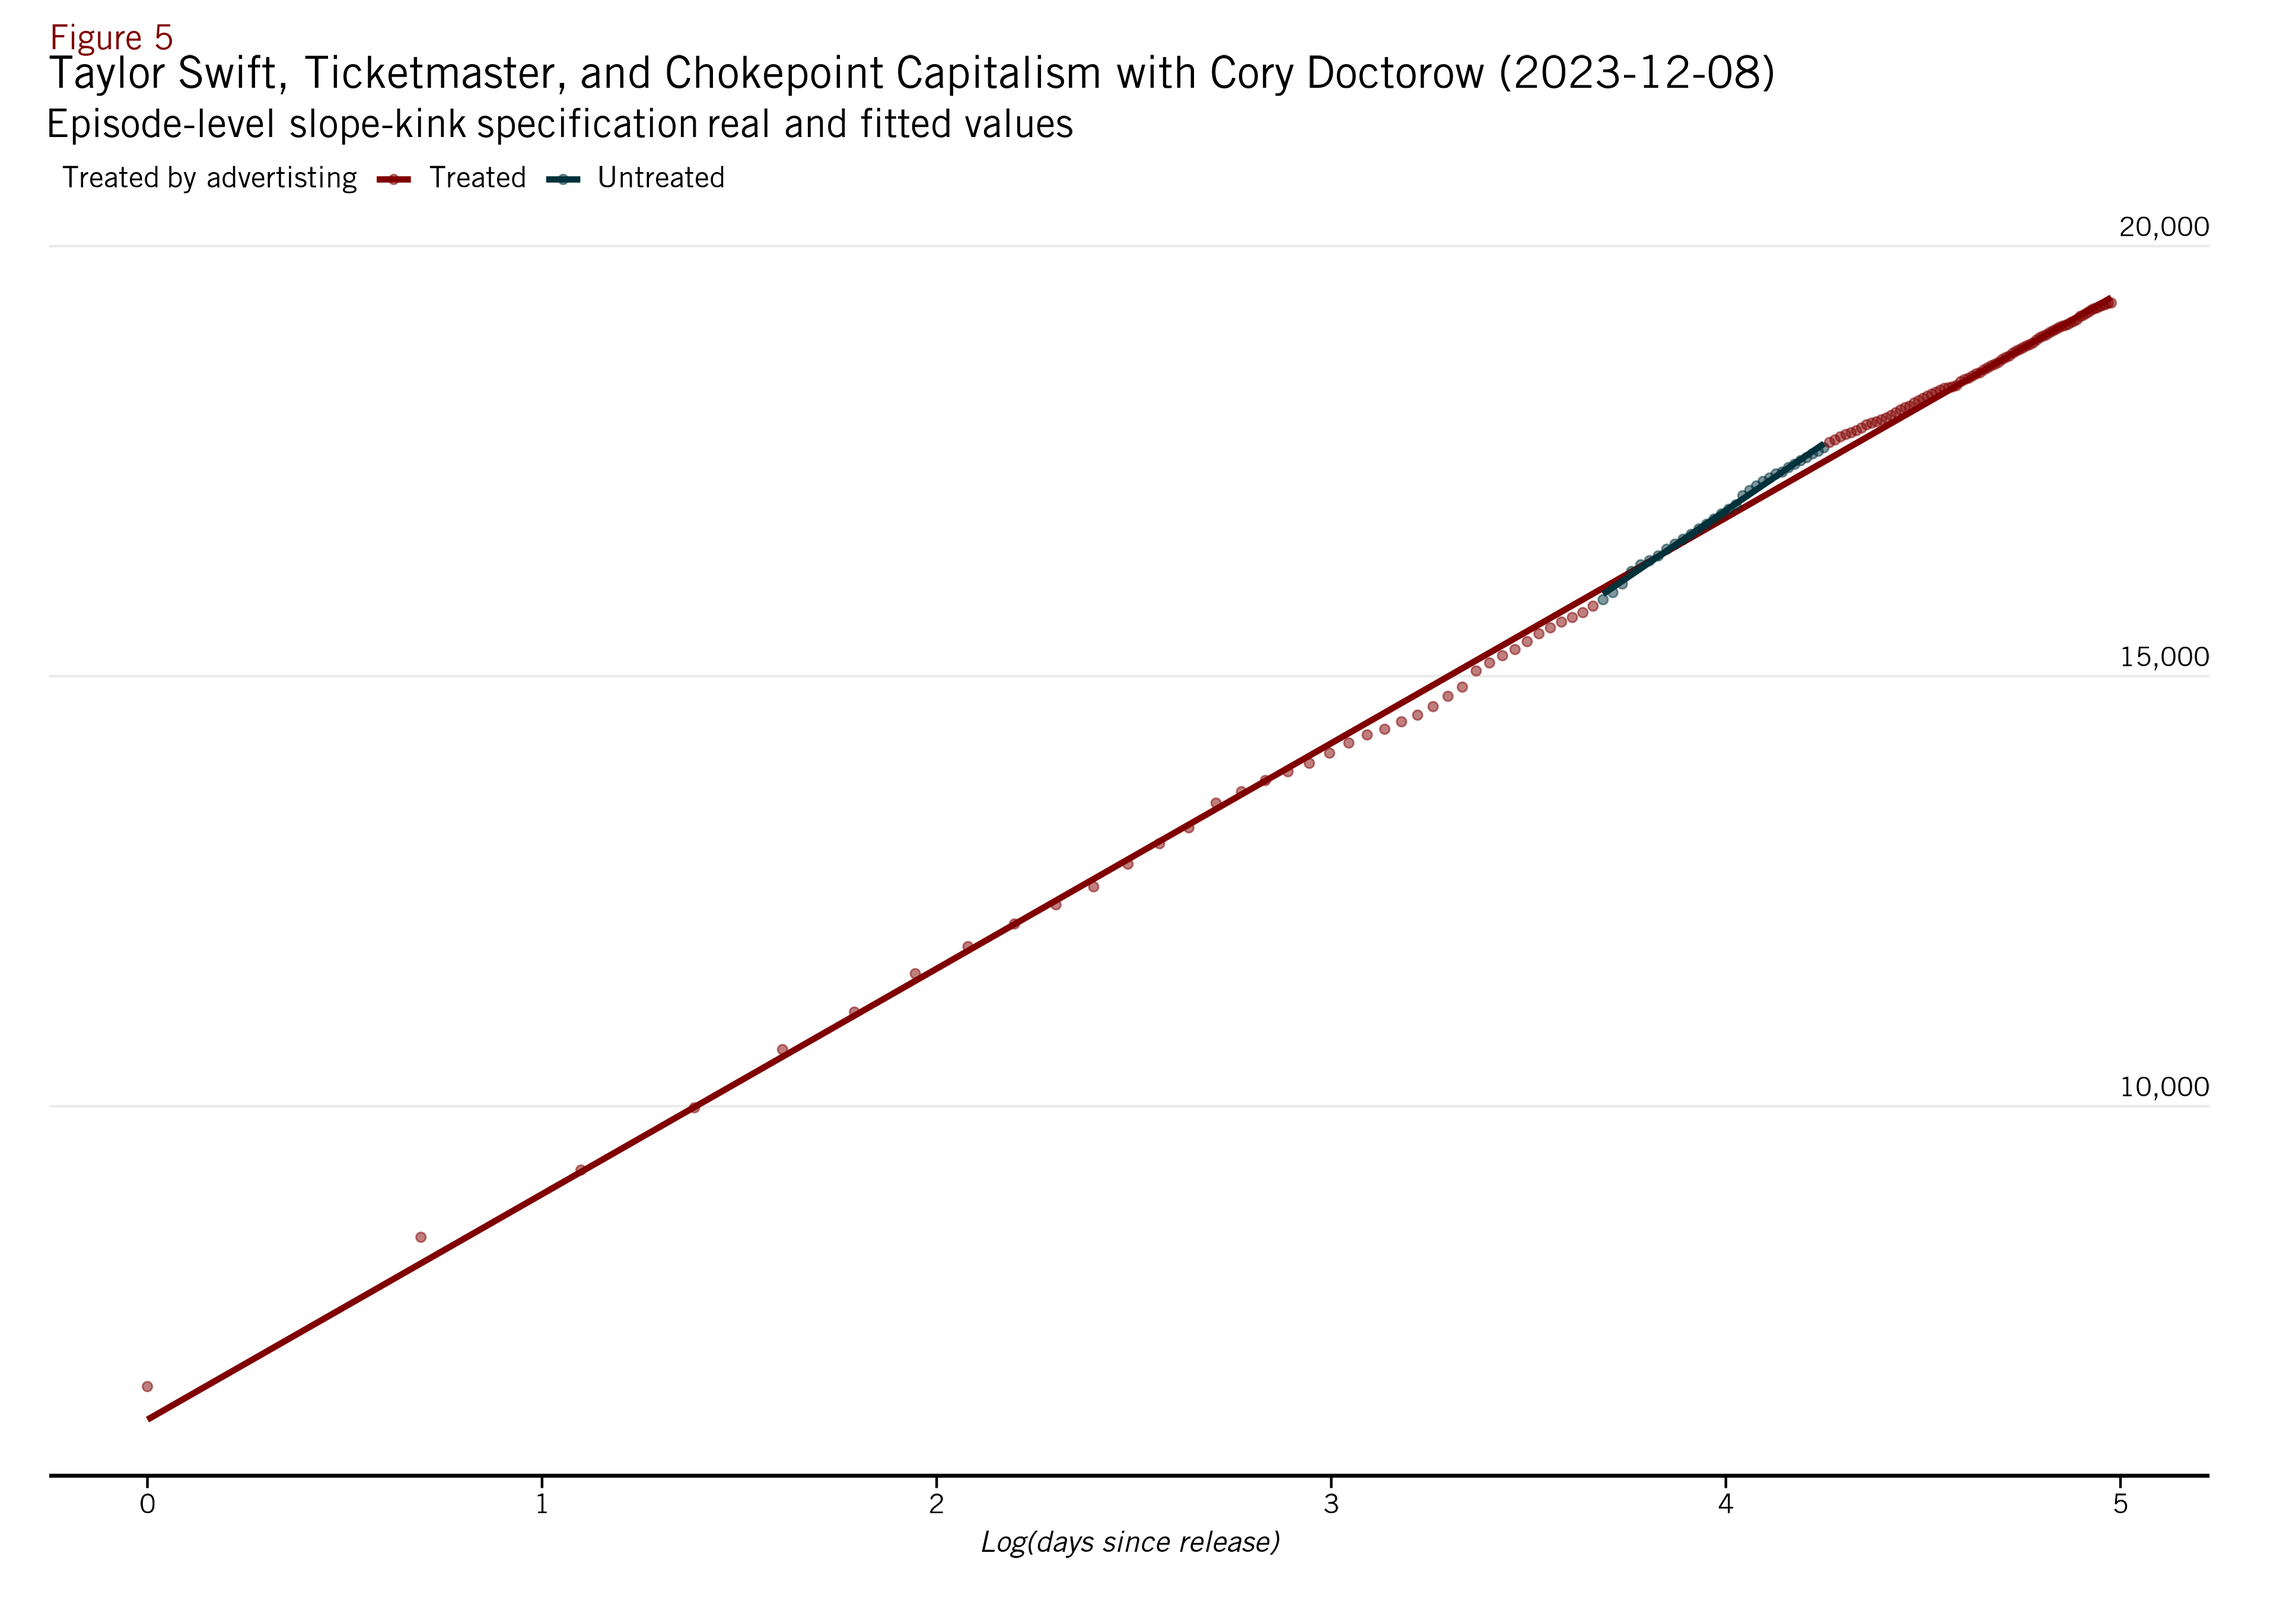
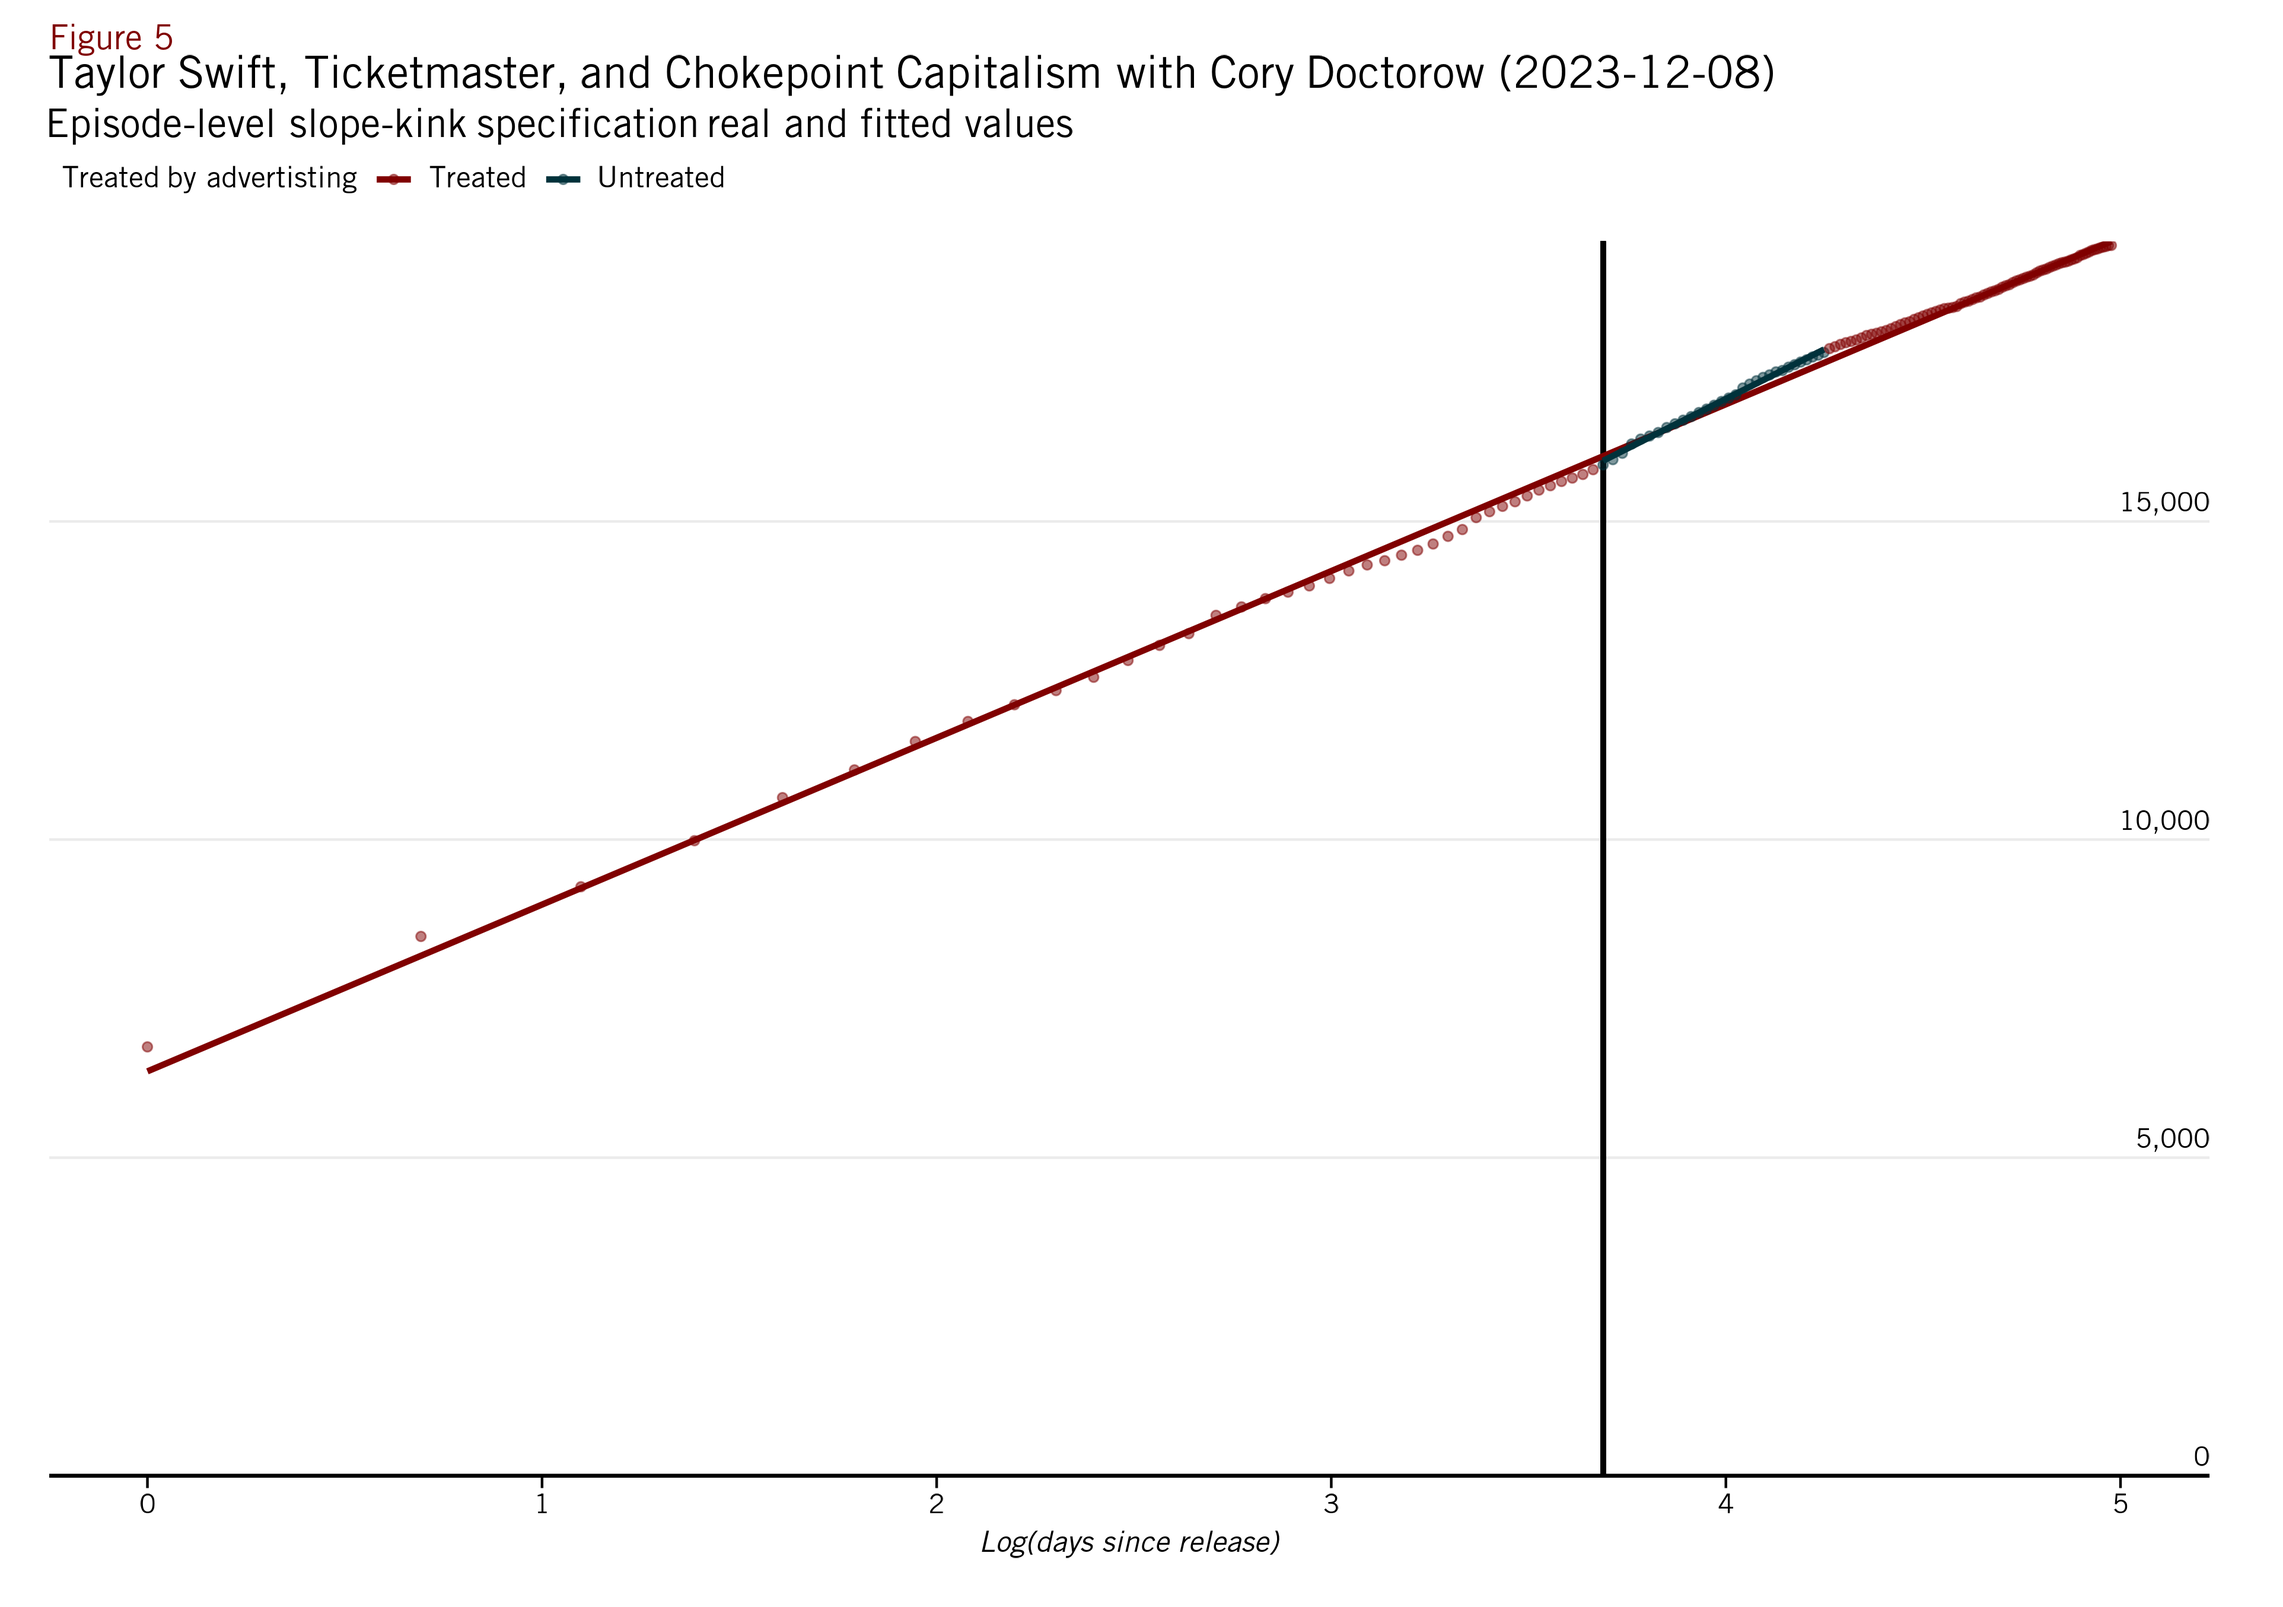
Adding a Yannelis example DiD plot
And the associated description/introduction of the DiD methodology

diff --git a/wmataCampaignAnalysis/wmataAnalysis.tex b/wmataCampaignAnalysis/wmataAnalysis.tex
@@ -153,7 +153,7 @@ Here, the interpretation of the estimated coefficients are quite intuitive: $\al
 
 Throughout \eqref{kink-ols} terms are assigned the entity sub-script $i$. Entities however, can be specified at the podcast or episode levels. The implications of this are manifold but I restrict my attention to episode-level analysis. Additionally, if we estimate \eqref{kink-ols} for all episodes simultaneously we suffer from sources of bias beyond those that are present in other estimates.\footnote{See section INSERT SECTION NUMBER REFERENCE HERE for more information on shortcomings} In particular, because the advertisement period is fixed in real terms (calendar dates), treatment in relative terms (note that this specification uses a relative days-since-release measure as a regressor) is staggered. So, for purposes of econometric simplicity, we estimate this model separately for each episode.\\
 
-For illustrative purposes, consider Figure \ref{tswift_fitted}, which plots the cumulative downloads of against the logarithm of days since release for the episode, ``Taylor Swift, Ticketmaster, and Chokepoint Capitalism with Cory Doctorow,'' release on December 12, 2022. The lines represent the fitted values estimated by \eqref{kink-ols} for this episode. This is an ideal episode to consider because it was release prior to the beginning of the advertising period and so had an established ``trajectory'' prior to being treated. The advertising period is plotted in blue whereas untreated observations are plotted in red.\\
+For illustrative purposes, consider Figure \ref{fig:tswift_fitted}, which plots the cumulative downloads of against the logarithm of days since release for the episode, ``Taylor Swift, Ticketmaster, and Chokepoint Capitalism with Cory Doctorow,'' release on December 12, 2022. The lines represent the fitted values estimated by \eqref{kink-ols} for this episode. This is an ideal episode to consider because it was release prior to the beginning of the advertising period and so had an established ``trajectory'' prior to being treated. The advertising period is plotted in blue whereas untreated observations are plotted in red.\\
  
 \begin{figure}[!htb]
   \centering
@@ -173,13 +173,23 @@ Generalizing this investigation, I re-esitmate \eqref{kink-ols} for the 50 most 
   \label{fig:kink-ols-heatmap}
 \end{figure}
 
-These results appear prima facie encouraging. For almost every episode, the relevant $\beta_3$ coefficient on the interaction appears to be statistically significant and positive. A naive event-study style interpretation of these results suggests that the advertisement campaign was at least superficially effective: it caused downloads to increase relative to the expected trajectory for effectively every episode.\\
+These results appear prima facie encouraging. For almost every episode, the relevant $\beta_3$ coefficient on the interaction appears to be statistically significant and positive. A naive event-study style interpretation of these results suggests that the advertisement campaign was at least superficially effective: it caused downloads to increase relative to the expected trajectory for effectively every episode.\footnote{The statistically significant negative coefficient on the advertisement regressor is not of particular concern. That is, because of the regression design, fitting a second line with a greater slope to a sample of points relatively far away from the vertical axis ($\log \text{DaysSinceRelease}=0$). That is, this negative ``intercept'' value is sufficiently small to be offset by the large estimated value of $\hat{\beta_1}\times\log\text{DaysSinceRelease}$ so that on the boundary of the advertisement period beginning, the line that fits the treated period intersects the line that fits the untreated observations.} \\
 
 However, this interpretation is flawed due to potentially attributing a spurious increase, perhaps driven by some unobserved variable, to the advertising treatment. In fact this is quite likely given that towards the end of the advertising period, the podcast briefly switched to a weekly release cadence, potentially increasing the apparent performance of episodes due simply to new listeners (attracted to the podcast due to secular growth associated with publishing episodes more regularly) perusing the back catalog of episodes. So, additional analysis is required.
 
 \subsection{DMV Diff-in-Diff}
 In addition to provide daily temporal resolution, the Simplecast API also provides a relatively high degree of geographic resolution to downloads data. Simpelcast provides an API endpoint that returns the at-present cross-sectional cumulative downloads data at the sub-state-location level throughout the United States. In order to construct a panel of episode-location-daily downloads data, I queried the API every day at midnight.\\
 
-Using this panel, we are able to test the effectiveness of the advertising campaign not only in time (as the previous kink specification described by \eqref{kink-ols}) 
+Using this panel, I am able to test the effectiveness of the advertising campaign not only in time (as the previous kink specification described by \eqref{kink-ols}), but also in space. The WMATA advertising was placed in stations throughout Washington, D.C., and in trains that moved throughout the greater D.C-Maryland-Virginia (DMV) area. Consequently, we treat downloads in these places as ``treated'' observations and other places throughout the United States as ``untreated'' units.\footnote{Simplecast does offer a relatively high degree of spatial resolution, usually, below the metropolitcan statistical area (MSA) level. For example, in Illinois, Chicago and Evanston are identified as two distinct places. However, it is unclear how Simplecast defines the boundaries between places (it does not, for example, use a county-based definition). By inspection, however, it does appear that all identified places are disjoint of each other.} We aggregate these small locations across state lines into a single ``DMV'' unit and leave all other places as untreated.\footnote{See Appendix INSERT APPENDIX HERE for a list of places identified as ``DMV'' places.}\\
+
+I use a difference-in-differences (DID) estimation strategy to isolate the hypothesied effect of advertising on downloads. The intuition to this strategy is similar to that of regression-kink design. However, with location data, I am able to use untreated locations as a ``control'' group against which I can compare the change in the growth in cumulative downloads expected due to the advertising. A regression equation of this kind would be specified as follows:
+
+\begin{align}
+  \label{dmv-did}
+  \text{CumulativeDownloads}_{ij} &= \alpha + \beta_1 \log \text{DaysSinceRelease}_{ij} + \beta_2 \text{Adv}_{ij} + \beta_3 \text{DMV}_i \\ \nonumber
+    &+ \beta_4(\log \text{DaysSinceRelease} \times \text{Adv} \times \text{DMV})_{ij} + X_i + \varepsilon_{ij} 
+\end{align}
+
+In \eqref{dmv-did}, $\text{DMV}_{ij}$ is an indicator variable that is coded as 1 if the location $j$ is in the treated DMV group. Additionally, $\beta_4$ is the coefficient of interest and is expected to be positive.\footnote{In contrast to many DID strategies, there are no ``time'' subscripts, $t$ on regressors because we control for time as its own regressor.} Similar to Figure \ref{fig:tswift_fitted}, Figure \ref{} provides an illustrative example of the intuition undergirding this estimation strategy.
 
 \end{document}
